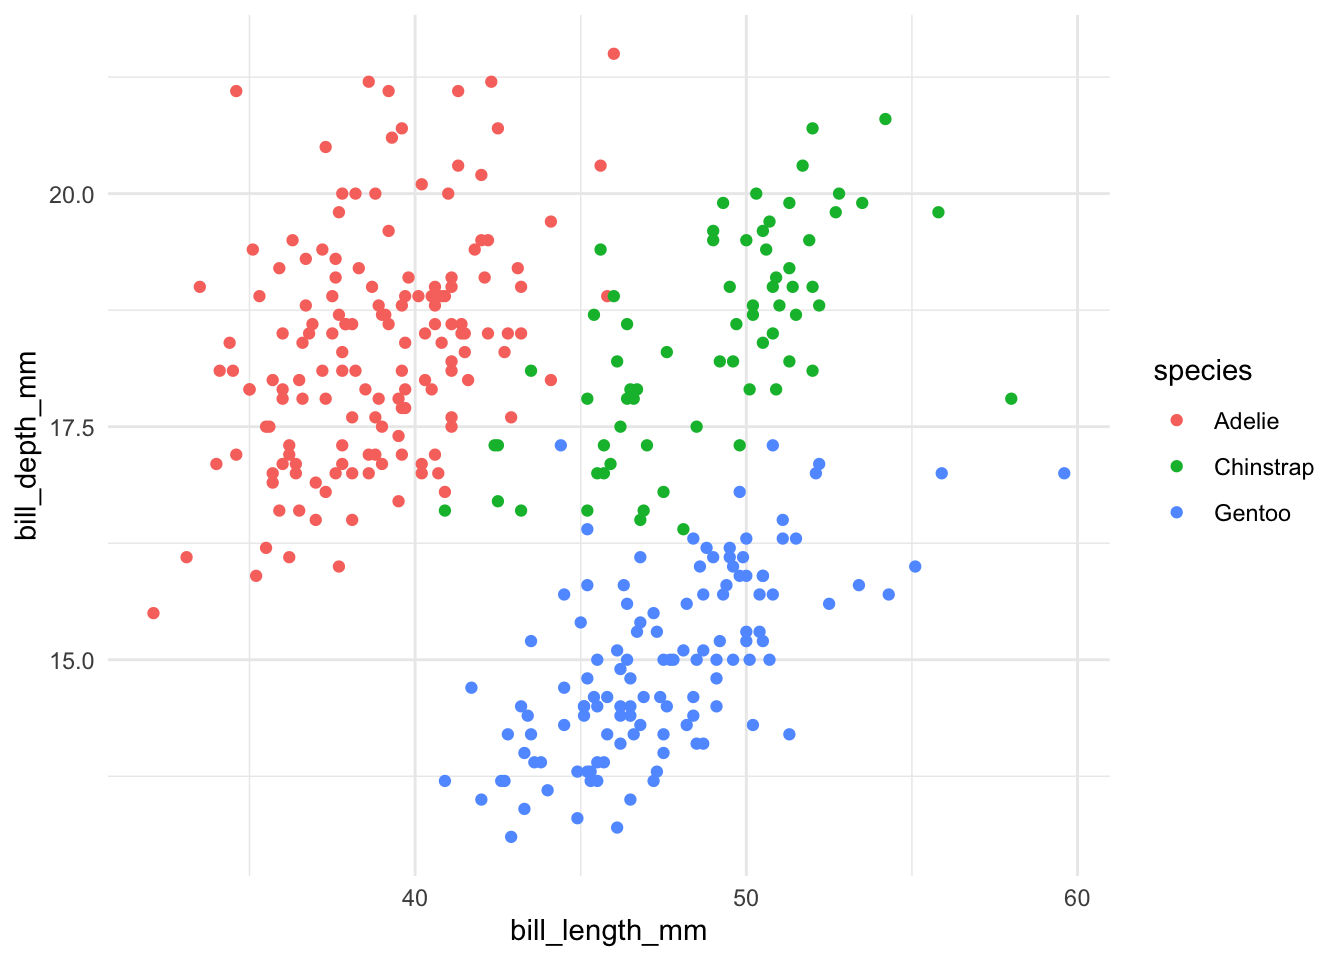
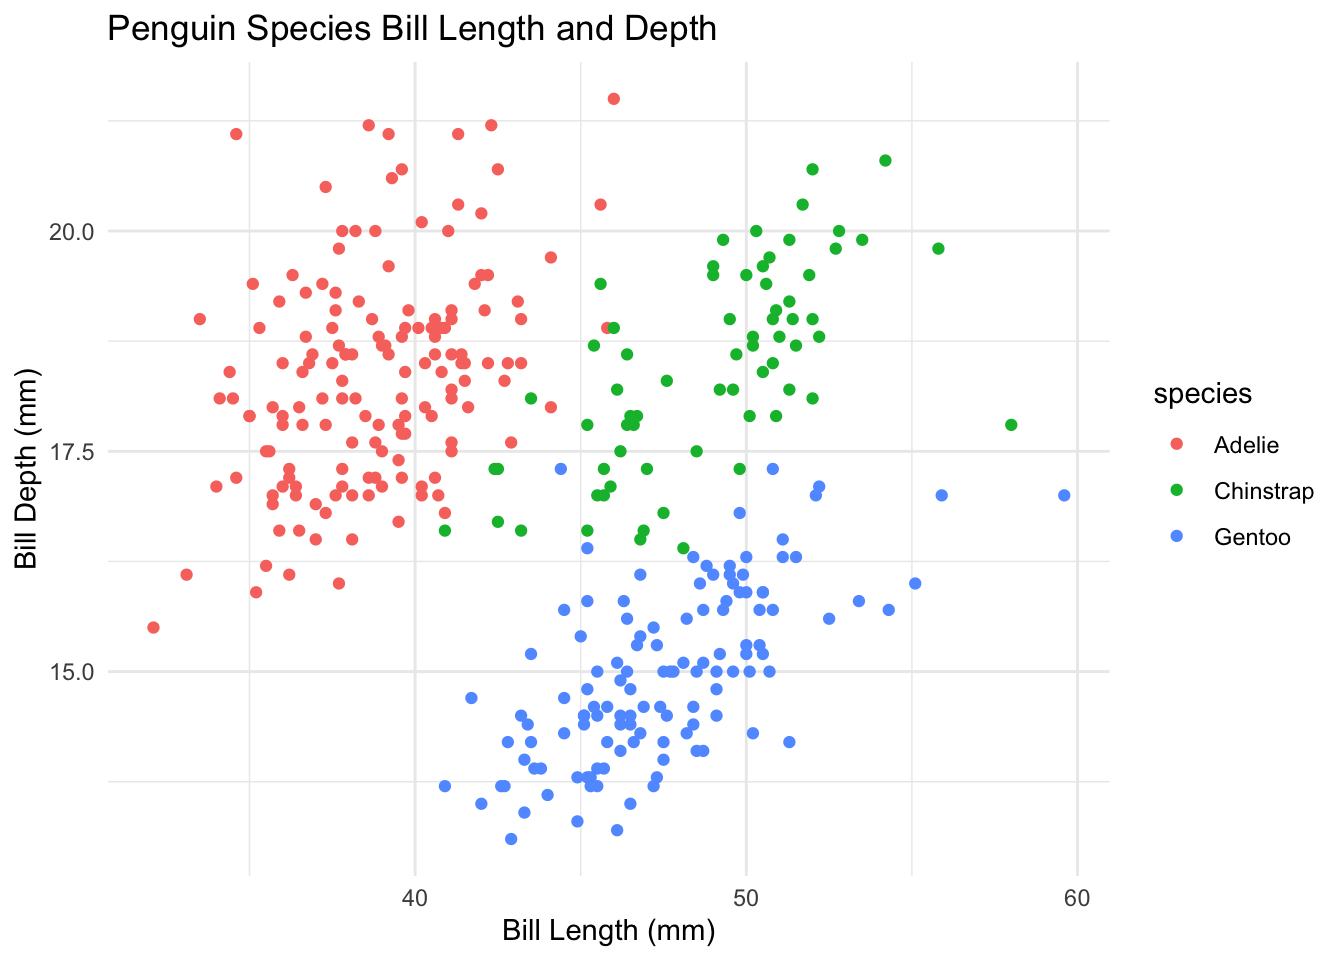
practice time

diff --git a/eds-212-day-2-task.html b/eds-212-day-2-task.html
@@ -150,7 +150,10 @@ pre > code.sourceCode > span > a:first-child::before { text-decoration: underlin
 <span id="cb8-3"><a href="#cb8-3" aria-hidden="true" tabindex="-1"></a>           <span class="at">y =</span> bill_depth_mm, </span>
 <span id="cb8-4"><a href="#cb8-4" aria-hidden="true" tabindex="-1"></a>           <span class="at">color =</span> species)) <span class="sc">+</span> </span>
 <span id="cb8-5"><a href="#cb8-5" aria-hidden="true" tabindex="-1"></a>  <span class="fu">geom_point</span>() <span class="sc">+</span> </span>
-<span id="cb8-6"><a href="#cb8-6" aria-hidden="true" tabindex="-1"></a>  <span class="fu">theme_minimal</span>()</span></code><button title="Copy to Clipboard" class="code-copy-button"><i class="bi"></i></button></pre></div>
+<span id="cb8-6"><a href="#cb8-6" aria-hidden="true" tabindex="-1"></a>  <span class="fu">labs</span>(<span class="at">x =</span> <span class="st">"Bill Length (mm)"</span>, </span>
+<span id="cb8-7"><a href="#cb8-7" aria-hidden="true" tabindex="-1"></a>       <span class="at">y =</span> <span class="st">"Bill Depth (mm)"</span>,</span>
+<span id="cb8-8"><a href="#cb8-8" aria-hidden="true" tabindex="-1"></a>       <span class="at">title =</span> <span class="st">"Penguin Species Bill Length and Depth"</span>) <span class="sc">+</span></span>
+<span id="cb8-9"><a href="#cb8-9" aria-hidden="true" tabindex="-1"></a>  <span class="fu">theme_minimal</span>()</span></code><button title="Copy to Clipboard" class="code-copy-button"><i class="bi"></i></button></pre></div>
 <div class="cell-output cell-output-stderr">
 <pre><code>Warning: Removed 2 rows containing missing values (`geom_point()`).</code></pre>
 </div>
@@ -159,7 +162,14 @@ pre > code.sourceCode > span > a:first-child::before { text-decoration: underlin
 </div>
 </div>
 <div class="cell">
-<div class="sourceCode cell-code" id="cb10"><pre class="sourceCode r code-with-copy"><code class="sourceCode r"><span id="cb10-1"><a href="#cb10-1" aria-hidden="true" tabindex="-1"></a><span class="fu">ggplot</span>(<span class="at">data =</span> penguins, <span class="fu">aes</span>(<span class="at">x =</span> species, <span class="at">y =</span> flipper_length_mm)) <span class="sc">+</span> <span class="fu">geom_jitter</span>() <span class="sc">+</span> <span class="fu">labs</span>(<span class="at">x =</span> <span class="st">"Species"</span>, <span class="at">y =</span> <span class="st">"Flipper Length (mm)"</span>, <span class="at">title =</span> <span class="st">"Penguin Species Flipper Length"</span>)</span></code><button title="Copy to Clipboard" class="code-copy-button"><i class="bi"></i></button></pre></div>
+<div class="sourceCode cell-code" id="cb10"><pre class="sourceCode r code-with-copy"><code class="sourceCode r"><span id="cb10-1"><a href="#cb10-1" aria-hidden="true" tabindex="-1"></a><span class="fu">ggplot</span>(<span class="at">data =</span> penguins, </span>
+<span id="cb10-2"><a href="#cb10-2" aria-hidden="true" tabindex="-1"></a>       <span class="fu">aes</span>(<span class="at">x =</span> species, </span>
+<span id="cb10-3"><a href="#cb10-3" aria-hidden="true" tabindex="-1"></a>           <span class="at">y =</span> flipper_length_mm)) <span class="sc">+</span> </span>
+<span id="cb10-4"><a href="#cb10-4" aria-hidden="true" tabindex="-1"></a>  <span class="fu">geom_jitter</span>() <span class="sc">+</span> </span>
+<span id="cb10-5"><a href="#cb10-5" aria-hidden="true" tabindex="-1"></a>  <span class="fu">labs</span>(<span class="at">x =</span> <span class="st">"Species"</span>, </span>
+<span id="cb10-6"><a href="#cb10-6" aria-hidden="true" tabindex="-1"></a>       <span class="at">y =</span> <span class="st">"Flipper Length (mm)"</span>, </span>
+<span id="cb10-7"><a href="#cb10-7" aria-hidden="true" tabindex="-1"></a>       <span class="at">title =</span> <span class="st">"Penguin Species Flipper Length"</span>) <span class="sc">+</span> </span>
+<span id="cb10-8"><a href="#cb10-8" aria-hidden="true" tabindex="-1"></a>  <span class="fu">theme_minimal</span>()</span></code><button title="Copy to Clipboard" class="code-copy-button"><i class="bi"></i></button></pre></div>
 <div class="cell-output cell-output-stderr">
 <pre><code>Warning: Removed 2 rows containing missing values (`geom_point()`).</code></pre>
 </div>
@@ -167,6 +177,9 @@ pre > code.sourceCode > span > a:first-child::before { text-decoration: underlin
 <p><img src="eds-212-day-2-task_files/figure-html/unnamed-chunk-5-1.png" class="img-fluid" width="672"></p>
 </div>
 </div>
+</section>
+<section id="practicing-staging-committing-pulling-and-pushing" class="level2">
+<h2 class="anchored" data-anchor-id="practicing-staging-committing-pulling-and-pushing">Practicing staging, committing, pulling, and pushing!</h2>
 </section>
 
 </main>
